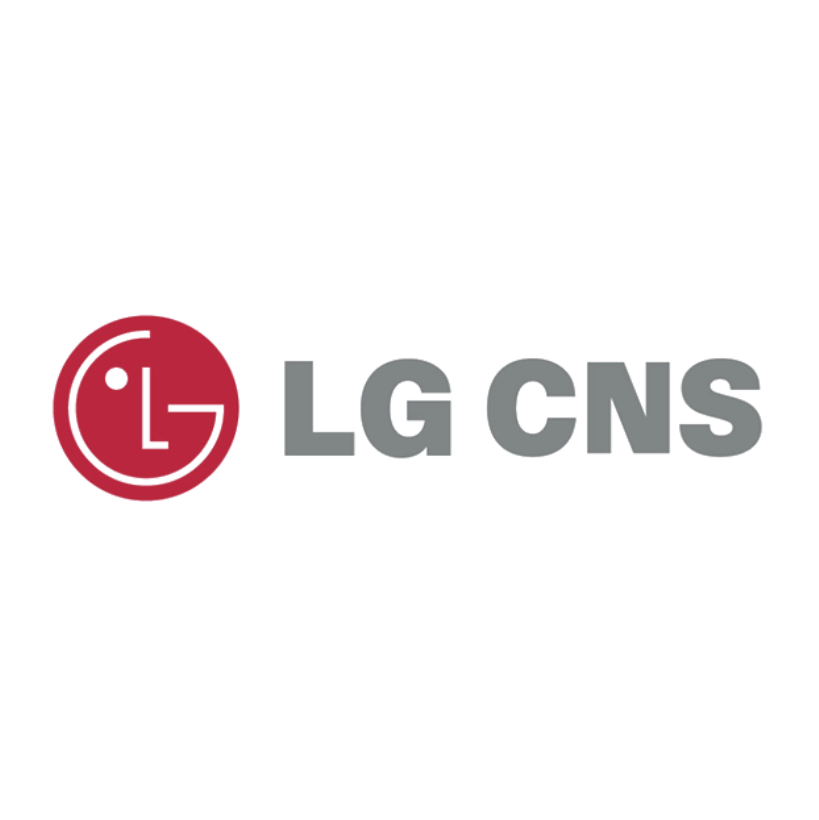
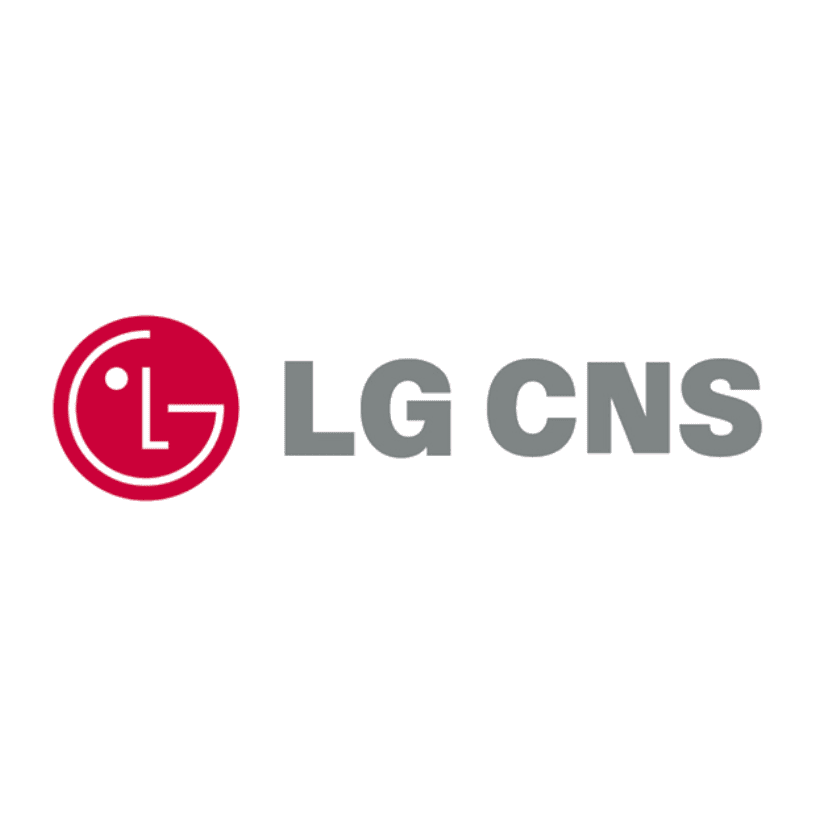
alumni 추가, header 반응 변경, console.log 삭제, 이미지 최적화

Changed region(s): [[0.0611, 0.3659, 0.3053, 0.6098]]

diff --git a/pages/constants/alumni.ts b/pages/constants/alumni.ts
@@ -1,17 +1,28 @@
+import naver from "public/images/alumni/naver.png";
+import baemin from "public/images/alumni/baemin.png";
+import chunmyeong from "public/images/alumni/chunmyeong.png";
 import samsung from "public/images/alumni/samsung.jpg";
-import baemin from "public/images/alumni/baemin.jpeg";
 import kakao from "public/images/alumni/kakao.png";
+import mesher from "public/images/alumni/mesher.jpg";
+import taling from "public/images/alumni/taling.png";
+import dreamary from "public/images/alumni/dreamary.png";
 import kakaoEnter from "public/images/alumni/kakao-enter.jpeg";
 import lgcns from "public/images/alumni/lgcns.png";
-import naver from "public/images/alumni/naver.jpeg";
-import mesher from "public/images/alumni/mesher.png";
+import ailo from "public/images/alumni/ailo.png";
+import sparta from "public/images/alumni/sparta.png";
+import swmaestro from "public/images/alumni/swmaestro.jpeg";
 
 export const Alumni = [
-  { name: "samsung", src: samsung },
-  { name: "kakao", src: kakao },
-  { name: "kakaoEnter", src: kakaoEnter },
   { name: "naver", src: naver },
   { name: "baemin", src: baemin },
-  { name: "lgcns", src: lgcns },
+  { name: "chunmyeong", src: chunmyeong },
+  { name: "samsung", src: samsung },
+  { name: "kakao", src: kakao },
   { name: "mesher", src: mesher },
+  { name: "taling", src: taling },
+  { name: "dreamary", src: dreamary },
+  { name: "kakaoEnter", src: kakaoEnter },
+  { name: "lgcns", src: lgcns },
+  { name: "ailo", src: ailo },
+  { name: "swmaestro", src: swmaestro },
 ];

diff --git a/pages/components/s3upload/index.tsx b/pages/components/s3upload/index.tsx
@@ -59,10 +59,9 @@ export default function UploadPage() {
       },
     }));
     setFile(file);
-    console.log(file);
   };
   const submitSheet = async () => {
-    console.log(values);
+    // console.log(values);
     await fetch("/api/email", {
       method: "POST",
       body: JSON.stringify(values),
@@ -71,7 +70,7 @@ export default function UploadPage() {
       },
     })
       .then((res) => {
-        console.log(res);
+        // console.log(res);
         setTouched({});
         setState(initState);
         setS3url("");

diff --git a/pages/join/index.tsx b/pages/join/index.tsx
@@ -39,7 +39,7 @@ export default function Join() {
     },
   };
   useEffect(() => {
-    console.log("loaded");
+    // console.log("loaded");
     setLoading(false);
   }, [isMobile, isDesktop]);
   useEffect(() => {
@@ -152,7 +152,6 @@ export default function Join() {
             <S.RocketContainer
               onClick={() => {
                 setModalOpen((modalOpen) => !modalOpen);
-                console.log(modalOpen);
               }}
               launched={launch}
             >

diff --git a/pages/components/nodemailer/index.tsx b/pages/components/nodemailer/index.tsx
@@ -39,7 +39,6 @@ function NodeMailer() {
     }));
   const onSelectFile = useCallback((e: any) => {
     setFileInfo(e.target.files[0]);
-    console.log("파일 들어감");
     let file = e.target.files[0];
   }, []);
 
@@ -56,7 +55,6 @@ function NodeMailer() {
     // }
     try {
       await sendContactForm(formData);
-      console.log("보냄");
       setTouched({});
       setState(initState);
       // setFileInfo(null);

diff --git a/styles/components/header/style.ts b/styles/components/header/style.ts
@@ -21,13 +21,13 @@ export const NavBarContainer = styled.div<{
     props.scroll &&
     props.pathname === "/home" &&
     css`
-      background-color: rgba(0, 0, 0, 0.8);
+      background-color: rgba(0, 0, 0, 0.85);
     `}
   ${(props) =>
     props.scroll &&
     props.pathname !== "/home" &&
     css`
-      background-color: rgba(255, 255, 255, 0.8);
+      background-color: rgba(255, 255, 255, 0.85);
     `}
 `;
 

diff --git a/pages/components/header/index.tsx b/pages/components/header/index.tsx
@@ -278,7 +278,8 @@ const NavBar = () => {
     <>
       {fullscreen && (
         <S.NavBarContainer
-          scroll={scrollPosition > fullscreen * 0.3 ? true : false}
+          scroll={scrollPosition > 60 ? true : false}
+          // scroll={scrollPosition > fullscreen * 0.2 ? true : false}
           pathname={pathname}
         >
           <S.NavBarLogo

diff --git a/pages/api/contact.ts b/pages/api/contact.ts
@@ -157,7 +157,6 @@ const generateEmailContent = (data: any) => {
 const handler = async (req: any, res: any) => {
   if (req.method === "POST") {
     const data = req.body.data;
-    console.log("여기임", data);
     const mailOptions = {
       from: email,
       to: data.email,

diff --git a/pages/lib/api.ts b/pages/lib/api.ts
@@ -2,8 +2,6 @@
 import axios from "axios";
 
 export const sendContactForm = async (data: any) => {
-  console.log("프론트 데이터", data);
-
   await axios
     .post(
       "/api/contact",

diff --git a/styles/components/slick/style.ts b/styles/components/slick/style.ts
@@ -16,7 +16,6 @@ export const ImageWrapper = styled.div`
     content: "";
     padding-bottom: 100%;
     display: block;
-    background-color: green;
   }
   & img {
     position: absolute;
